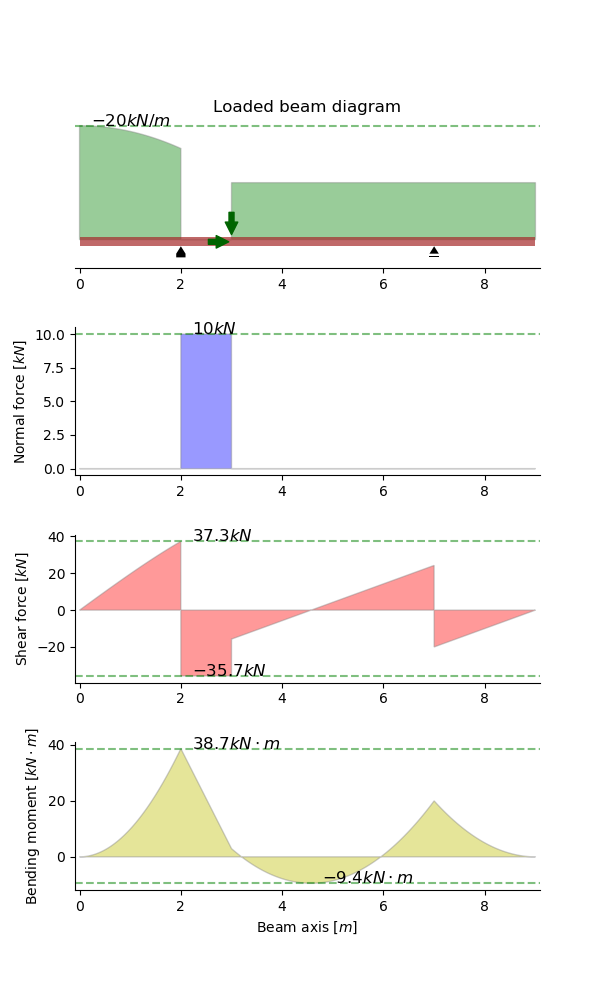
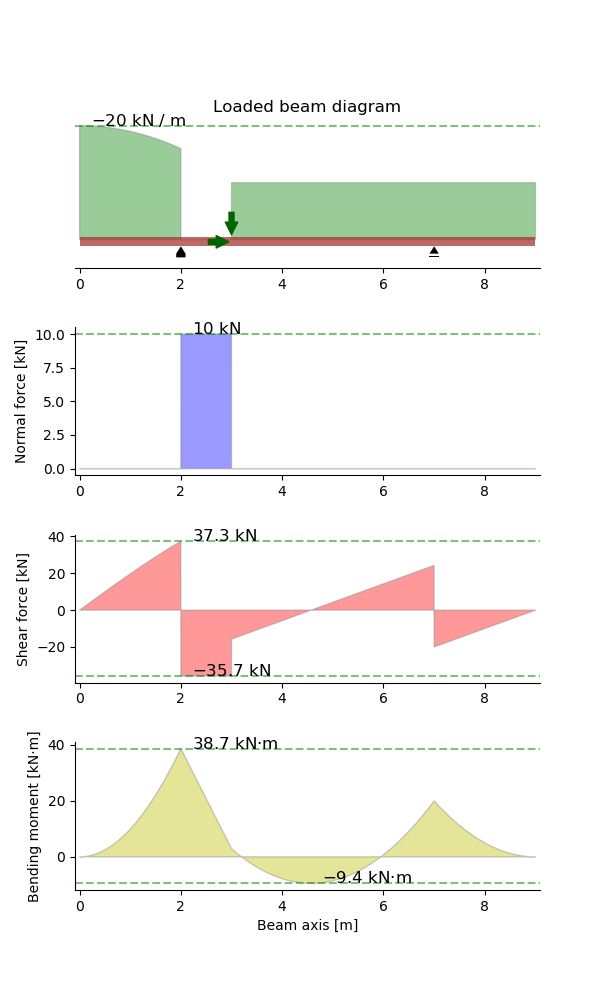
Correct how units are displayed
Preceed units by a space in theory module and example
Remove italics

diff --git a/beambending/beam.py b/beambending/beam.py
@@ -6,7 +6,7 @@ Example
 >>> my_beam = Beam(9)
 >>> my_beam.pinned_support = 2    # x-coordinate of the pinned support
 >>> my_beam.rolling_support = 7  # x-coordinate of the rolling support
->>> my_beam.add_loads([PointLoadV(-20, 3)])  # 20kN downwards, at x=3m
+>>> my_beam.add_loads([PointLoadV(-20, 3)])  # 20 kN downwards, at x=3 m
 >>> print("(F_Ax, F_Ay, F_By) =", my_beam.get_reaction_forces())
 (F_Ax, F_Ay, F_By) = (0.0, 16.0, 4.0)
 
@@ -30,7 +30,7 @@ class PointLoadV(namedtuple("PointLoadV", "force, coord")):
 
     Examples
     --------
-    >>> external_force = PointLoadV(-30, 3)  # 30kN downwards at x=3m
+    >>> external_force = PointLoadV(-30, 3)  # 30 kN downwards at x=3 m
     >>> external_force
     PointLoadV(force=-30, coord=3)
     """
@@ -41,7 +41,7 @@ class PointLoadH(namedtuple("PointLoadH", "force, coord")):
 
     Examples
     --------
-    >>> external_force = PointLoadH(10, 9)  # 10kN towards the right at x=9m
+    >>> external_force = PointLoadH(10, 9)  # 10 kN towards the right at x=9 m
     >>> external_force
     PointLoadH(force=10, coord=9)
     """
@@ -52,7 +52,7 @@ class DistributedLoadV(namedtuple("DistributedLoadV", "expr, span")):
 
     Examples
     --------
-    >>> snow_load = DistributedLoadV("10*x+5", (0, 2))  # Linearly growing load for 0<x<2
+    >>> snow_load = DistributedLoadV("10*x+5", (0, 2))  # Linearly growing load for 0<x<2 m
     
     """
 
@@ -78,8 +78,10 @@ class Beam:
 
     Notes
     -----
-    The Beam class currently supports only statically determined beams with
-    (exactly) one pinned and one roller support.
+    * The Beam class currently supports only statically determined beams with
+      (exactly) one pinned and one roller support.
+    * The default units package units for length, force and bending moment 
+      (torque) are respectively (m, kN, kN·m)
 
     """
     
@@ -265,7 +267,7 @@ class Beam:
     def plot_bending_moment(self, ax=None):
         """Returns a plot of the bending moment as a function of the x-coordinate.
         """
-        plot04_params = {'ylabel': "Bending moment", 'yunits': r'kN \cdot m',
+        plot04_params = {'ylabel': "Bending moment", 'yunits': r'kN·m',
                          'xlabel': "Beam axis", 'xunits': "m",
                          'color': "y"}
         if ax is None:
@@ -284,7 +286,7 @@ class Beam:
         :param title: title to show above the plot, optional
         :param maxmin_hline: when set to False, the extreme values of the function are not displayed
         :param xunits: str, physical unit to be used for the x-axis. Example: "m"
-        :param yunits: str, physical unit to be used for the y-axis. Example: "m"
+        :param yunits: str, physical unit to be used for the y-axis. Example: "kN"
         :param xlabel: str, physical variable displayed on the x-axis. Example: "Length"
         :param ylabel: str, physical variable displayed on the y-axis. Example: "Shear force"
         :param color: color to be used for the shaded area of the plot. No shading if not provided
@@ -310,14 +312,14 @@ class Beam:
             if abs(max(y_vec)) > tol:
                 ax.axhline(y=max(y_vec), linestyle='--', color="g", alpha=0.5)
                 max_idx = y_vec.argmax()
-                plt.annotate('${:0.1f}'.format(y_vec[max_idx]*(1-2*inverted)).rstrip('0').rstrip('.') + " {}$".format(yunits),
+                plt.annotate('${:0.1f}'.format(y_vec[max_idx]*(1-2*inverted)).rstrip('0').rstrip('.') + " $ {}".format(yunits),
                             xy=(x_vec[max_idx], y_vec[max_idx]), xytext=(8, 0), xycoords=('data', 'data'),
                             textcoords='offset points', size=12)
 
             if abs(min(y_vec)) > tol:
                 ax.axhline(y=min(y_vec), linestyle='--', color="g", alpha=0.5)
                 min_idx = y_vec.argmin()
-                plt.annotate('${:0.1f}'.format(y_vec[min_idx]*(1-2*inverted)).rstrip('0').rstrip('.') + " {}$".format(yunits),
+                plt.annotate('${:0.1f}'.format(y_vec[min_idx]*(1-2*inverted)).rstrip('0').rstrip('.') + " $ {}".format(yunits),
                             xy=(x_vec[min_idx], y_vec[min_idx]), xytext=(8, 0), xycoords=('data', 'data'),
                             textcoords='offset points', size=12)
 
@@ -330,10 +332,10 @@ class Beam:
             ax.set_title(title)
 
         if xlabel or xunits:
-            ax.set_xlabel('{} $[{}]$'.format(xlabel, xunits))
+            ax.set_xlabel('{} [{}]'.format(xlabel, xunits))
 
         if ylabel or yunits:
-            ax.set_ylabel("{} $[{}]$".format(ylabel, yunits))
+            ax.set_ylabel("{} [{}]".format(ylabel, yunits))
 
         return ax
 

diff --git a/examples/example_1.py b/examples/example_1.py
@@ -7,14 +7,14 @@ from beambending import Beam, DistributedLoadV, PointLoadH, PointLoadV, x
 
 def example_1():
     """Run example 1"""
-    beam = Beam(9)  # Initialize a Beam object of length 9m
+    beam = Beam(9)  # Initialize a Beam object of length 9 m
     beam.pinned_support = 2    # x-coordinate of the pinned support
     beam.rolling_support = 7  # x-coordinate of the rolling support
     beam.add_loads((
-                    PointLoadH(10, 3),  # 10kN pointing right, at x=3m
-                    PointLoadV(-20, 3),  # 20kN downwards, at x=3m
-                    DistributedLoadV(-10, (3, 9)),  # 10 kN/m, downwards, for 3m <= x <= 9m
-                    DistributedLoadV(-20 + x**2, (0, 2)),  # variable load, for 0m <= x <= 2m
+                    PointLoadH(10, 3),  # 10 kN pointing right, at x=3 m
+                    PointLoadV(-20, 3),  # 20 kN downwards, at x=3 m
+                    DistributedLoadV(-10, (3, 9)),  # 10 kN/m, downwards, for 3 m <= x <= 9 m
+                    DistributedLoadV(-20 + x**2, (0, 2)),  # variable load, for 0 <= x <= 2 m
                 ))
     fig = beam.plot()
 

diff --git a/examples/example_shear0.py b/examples/example_shear0.py
@@ -10,12 +10,12 @@ def example_shear0():
     my_beam = Beam(6)
     my_beam.rolling_support = 0  # x-coordinate of the rolling support
     my_beam.pinned_support = 3    # x-coordinate of the pinned support
-    my_beam.add_loads([PointLoadV(10, 6)])  # 10kN pointing upwards, at x=6m
+    my_beam.add_loads([PointLoadV(10, 6)])  # 10 kN pointing upwards, at x=6 m
     fig = my_beam.plot_beam_diagram()
     ax = fig.gca()
     ax.text(0, -1.35, r'A', ha='center', va='top')
     ax.text(3, -1.35, r'B', ha='center', va='top')
-    ax.text(5.9, -1.2, r'$P_1=10kN$', ha='right', va='top', color='darkgreen')
+    ax.text(5.9, -1.2, r'$P_1=10$ kN', ha='right', va='top', color='darkgreen')
     ax.axvline(x=2, linestyle='--', color="k", alpha=0.5)
     ax.text(2, 0.5, r'Section 1-1', rotation=90, ha='right', va='bottom')
     ax.axvline(x=4, linestyle='--', color="k", alpha=0.5)

diff --git a/examples/example_normal0.py b/examples/example_normal0.py
@@ -10,12 +10,12 @@ def example_normal0():
     beam = Beam(6)
     beam.rolling_support = 0  # x-coordinate of the rolling support
     beam.pinned_support = 3    # x-coordinate of the pinned support
-    beam.add_loads([PointLoadH(5, 6)])  # 5kN pointing right, at x=6m
+    beam.add_loads([PointLoadH(5, 6)])  # 5 kN pointing right, at x=6 m
     fig = beam.plot_beam_diagram()
     ax = fig.gca()
     ax.text(0, -1.35, r'A', ha='center', va='top')
     ax.text(3, -1.35, r'B', ha='center', va='top')
-    ax.text(6, -0.5, r'$F_1=5kN$', ha='right', va='top', color='darkgreen')
+    ax.text(6, -0.5, r'$F_1=5$ kN', ha='right', va='top', color='darkgreen')
     ax.axvline(x=2, linestyle='--', color="k", alpha=0.5)
     ax.text(2, 0.5, r'Section 1-1', rotation=90, ha='right', va='bottom')
     ax.axvline(x=4, linestyle='--', color="k", alpha=0.5)

diff --git a/examples/example_shear1.py b/examples/example_shear1.py
@@ -11,7 +11,7 @@ def example_shear1():
     my_beam = Beam(6)
     my_beam.rolling_support = 0  # x-coordinate of the rolling support
     my_beam.pinned_support = 3    # x-coordinate of the pinned support
-    my_beam.add_loads([PointLoadV(10, 6)])  # 10kN pointing upwards, at x=6m
+    my_beam.add_loads([PointLoadV(10, 6)])  # 10 kN pointing upwards, at x=6 m
     fig = plt.figure()
     my_beam.plot_shear_force(fig.add_subplot(2, 1, 1))
     my_beam.plot_bending_moment(fig.add_subplot(2, 1, 2))

diff --git a/examples/example_normal1.py b/examples/example_normal1.py
@@ -10,7 +10,7 @@ def example_normal1():
     beam = Beam(6)
     beam.rolling_support = 0  # x-coordinate of the rolling support
     beam.pinned_support = 3    # x-coordinate of the pinned support
-    beam.add_loads([PointLoadH(5, 6)])  # 5kN pointing right, at x=6m
+    beam.add_loads([PointLoadH(5, 6)])  # 5 kN pointing right, at x=6 m
     fig = beam.plot_normal_force()
     
     # save the png and add it to the documentation

diff --git a/docs/source/beam_diagrams.rst b/docs/source/beam_diagrams.rst
@@ -21,7 +21,7 @@ Normal forces are hence perpendicular to these planes, i.e. parallel to the beam
 The first introductory problem to consider will be a 6 meter long horizontal beam resting on two supports:
 
   * a roller support at :math:`x=0`
-  * a pinned support at :math:`x=3m`
+  * a pinned support at :math:`x=3\text{ m}`
 
 .. container:: toggle
 
@@ -43,13 +43,13 @@ The first introductory problem to consider will be a 6 meter long horizontal bea
    :alt: Beam on two supports with horizontal load
 
    The beam is held in place by a rolling support at *A* and a pinned support at *B*.
-   A normal (tensile) force :math:`F_{1} = 5\text{kN}` is acting at the right end of the beam.
+   A normal (tensile) force :math:`F_{1} = 5\text{ kN}` is acting at the right end of the beam.
 
 Let's find the reaction forces first, so we can proceed with our analysis.
 
 .. math::
 
-    \sum{F_x} = 0 \implies F_{Bx} + F_{1} = 0 \implies \underline{F_{Bx} = -5\text{kN}}\\
+    \sum{F_x} = 0 \implies F_{Bx} + F_{1} = 0 \implies \underline{F_{Bx} = -5\text{ kN}}\\
     \left.
       \begin{array}{ll}
         \sum{M_A} = 0\\
@@ -76,9 +76,9 @@ The other equilibrium equations are identically zero (no vertical forces or mome
 
 .. math::
 
-    \sum{F_x} = 0 \implies F_{1} - N = 0 \implies \underline{N|_{x=x_2} = 5\text{kN}}
+    \sum{F_x} = 0 \implies F_{1} - N = 0 \implies \underline{N|_{x=x_2} = 5\text{ kN}}
 
-Here we have found the internal normal force :math:`\mathbf{N}` to be equal to 5kN.
+Here we have found the internal normal force :math:`\mathbf{N}` to be equal to 5 kN.
 The positive sign corresponds to the standard convention.
 The normal force :math:`\mathbf{N}` is defined as positive when it points outwards.
 It follows from this that tensile forces are positive and compression forces negative.
@@ -110,7 +110,7 @@ In this simple case, we end up with the following piecewise function:
     N(x) = \left\{
       \begin{array}{cl}
          0 \ \ \ & \text{if} \ \  0 \leq x < x_B\\
-         5 \text{kN} \ \ \ & \text{if} \ \  < x_B \leq x < L
+         5 \text{ kN} \ \ \ & \text{if} \ \  < x_B \leq x < L
       \end{array}
     \right.
 
@@ -134,7 +134,7 @@ Shear force :math:`V(x)` and moment :math:`M(x)`
 ************************************************
 
 Let's do a similar analysis of the same beam for vertical forces.
-Instead of the horizontal force :math:`\mathbf{F_1}`, consider now a vertical force :math:`\mathbf{P_1} = 10\text{kN}` acting at the beam's right end (plane 3-3).
+Instead of the horizontal force :math:`\mathbf{F_1}`, consider now a vertical force :math:`\mathbf{P_1} = 10\text{ kN}` acting at the beam's right end (plane 3-3).
 
 .. container:: toggle
 
@@ -156,17 +156,17 @@ Instead of the horizontal force :math:`\mathbf{F_1}`, consider now a vertical fo
    :alt: Beam on two supports with vertical load
 
    The beam is held in place by a rolling support at *A* and a pinned support at *B*.
-   A force :math:`P_{1} = 10\text{kN}` directed upwards is acting at the right end of the beam.
+   A force :math:`P_{1} = 10\text{ kN}` directed upwards is acting at the right end of the beam.
 
 In the same way as before, we start by finding the reaction forces at the supports *A* and *B*.
 
 .. math::
 
     \sum{F_x} = 0 \implies \underline{F_{Bx} = 0}\\
-    \sum{M_A} = 0 \implies F_{Bz} = -\cfrac{\mathbf{P_1}L}{d} = -20 \text{kN}\\
-    \sum{F_z} = 0 \implies F_A = \cfrac{\mathbf{P_1}(L-d)}{d} = 10 \text{kN}
+    \sum{M_A} = 0 \implies F_{Bz} = -\cfrac{\mathbf{P_1}L}{d} = -20 \text{ kN}\\
+    \sum{F_z} = 0 \implies F_A = \cfrac{\mathbf{P_1}(L-d)}{d} = 10 \text{ kN}
 
-where :math:`L=6\text{m}` is the length of the beam, and :math:`d=3\text{m}` is the distance between supports *A* and *B*.
+where :math:`L=6\text{ m}` is the length of the beam, and :math:`d=3\text{ m}` is the distance between supports *A* and *B*.
 
 Next, we draw a free body diagram of the beam section comprised between planes 2-2 and 3-3, and do a balance of forces and moments once more.
 
@@ -181,15 +181,15 @@ Next, we draw a free body diagram of the beam section comprised between planes 2
 
 .. math::
 
-    \sum{F_z} = 0 \implies \mathbf{P_1} - V = 0 \implies V = 10 \text{kN}\\
+    \sum{F_z} = 0 \implies \mathbf{P_1} - V = 0 \implies V = 10 \text{ kN}\\
     \sum{M} = 0 \implies M(x) - \mathbf{P_1} (x-L) = 0 \implies M(x) = \mathbf{P_1} (x-L)
 
-The vertical plane 2-2, corresponds to :math:`x=4`, hence 
+The vertical plane 2-2, corresponds to :math:`x=4\text{ m}`, hence 
 
-   - :math:`V|_{2-2} = V(x)|_{x=4} = \underline{10 \text{kN}}`, and
-   - :math:`M|_{2-2} = M(x)|_{x=4} = \underline{-20 \text{kNm}}`.
+   - :math:`V|_{2-2} = V(x)|_{x=4\text{ m}} = \underline{10 \text{ kN}}`, and
+   - :math:`M|_{2-2} = M(x)|_{x=4\text{ m}} = \underline{-20 \text{ kN·m}}`.
 
-The negative value of :math:`M(x)|_{x=4}` means that the actual moment acting on the left side of that beam section is *opposite to the arrow drawn in the figure above* (i.e. clockwise instead of counterclockwise).
+The negative value of :math:`M(x)|_{x=4\text{ m}}` means that the actual moment acting on the left side of that beam section is *opposite to the arrow drawn in the figure above* (i.e. clockwise instead of counterclockwise).
 
 .. note::
    The sign convention we follow is shown in the figure below:
@@ -226,15 +226,15 @@ The equations for sum of forces and sum of moments become then:
 
     \begin{array}{rl}
       \mathbf{\sum{F_z}} = -V_{1-1} + F_{Bz} + V_{2-2} &= 0 \\ 
-       -V_{1-1} + (-20 \text{kN}) + 10 \text{kN} &= 0 \\ 
-       V_{1-1} &= \underline{-10 \text{kN}}
+       -V_{1-1} + (-20 \text{ kN}) + 10 \text{ kN} &= 0 \\ 
+       V_{1-1} &= \underline{-10 \text{ kN}}
     \end{array}\\
     \\
     \begin{array}{rrl}
-      & \mathbf{\sum{M}} = M_{1-1} + F_{Bz}(d-x) - V_{2-2}(4\text{m}-x) &= 0 \\ 
-      & M_{1-1} + 20\text{kN}(3\text{m}-x) - 10 \text{kN}(4\text{m}-x) &= 0\\ 
-      \text{since } x|_{1-1}=2\text{m} \implies & M_{1-1} + 20\text{kN}(3\text{m}-2\text{m}) - 10 \text{kN}(6\text{m}-2\text{m}) &= 0\\
-      & M_{1-1} &= \underline{-20 \text{kNm}}
+      & \mathbf{\sum{M}} = M_{1-1} + F_{Bz}(d-x) - V_{2-2}(4\text{ m}-x) &= 0 \\ 
+      & M_{1-1} + 20\text{ kN}(3\text{ m}-x) - 10 \text{ kN}(4\text{ m}-x) &= 0\\ 
+      \text{since } x|_{1-1}=2\text{ m} \implies & M_{1-1} + 20\text{ kN}(3\text{ m}-2\text{ m}) - 10 \text{ kN}(6\text{ m}-2\text{ m}) &= 0\\
+      & M_{1-1} &= \underline{-20 \text{ kN·m}}
     \end{array}
     
 .. tip::

diff --git a/docs/source/examples/example_1.rst b/docs/source/examples/example_1.rst
@@ -15,12 +15,12 @@ Try it in an online Jupyter notebook: |binder|
 
 Specifications
 --------------
-A beam resting on two supports at x=2 and x=7, with the following applied loads:
+A beam resting on two supports at x=2 m and x=7 m, with the following applied loads:
 
-* a downward force of 20kN at x=3;
-* a force of 10kN pointing right, also at x=3;
-* a downward distributed load of 20 kN/m on 0 <= x <= 2;
-* a downward distributed load of 10 kN/m on 3 <= x <= 9
+* a downward force of 20 kN at x=3 m;
+* a force of 10 kN pointing right, also at x=3 m;
+* a downward distributed load of 20 kN/m on 0 <= x <= 2 m;
+* a downward distributed load of 10 kN/m on 3 m <= x <= 9 m
 
 Results
 -------
